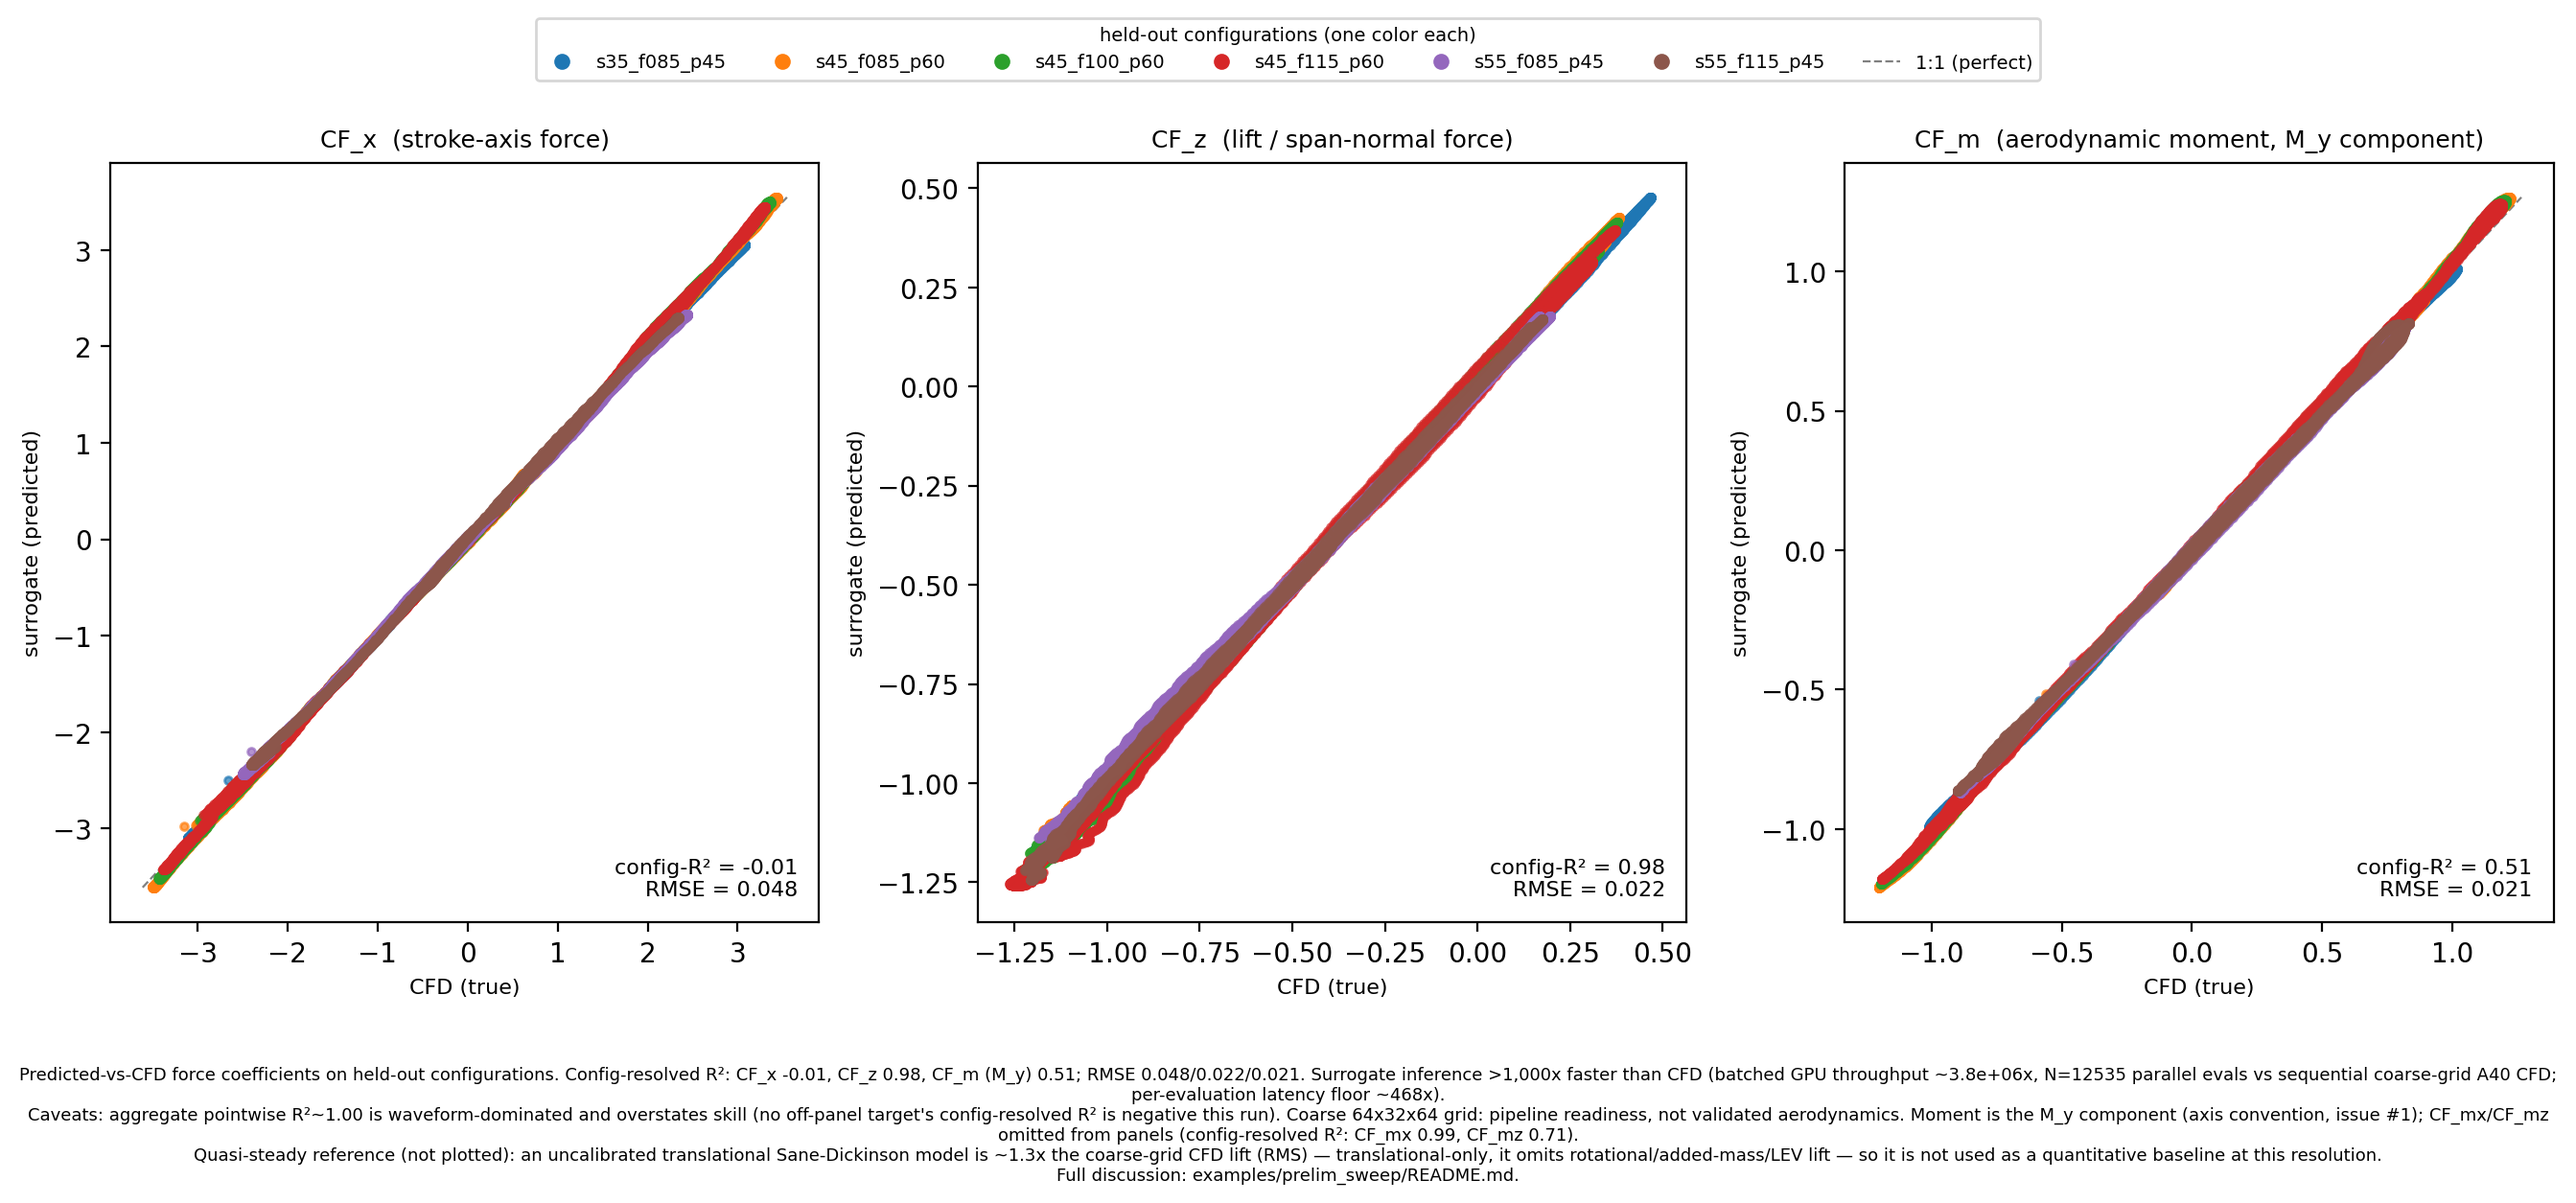
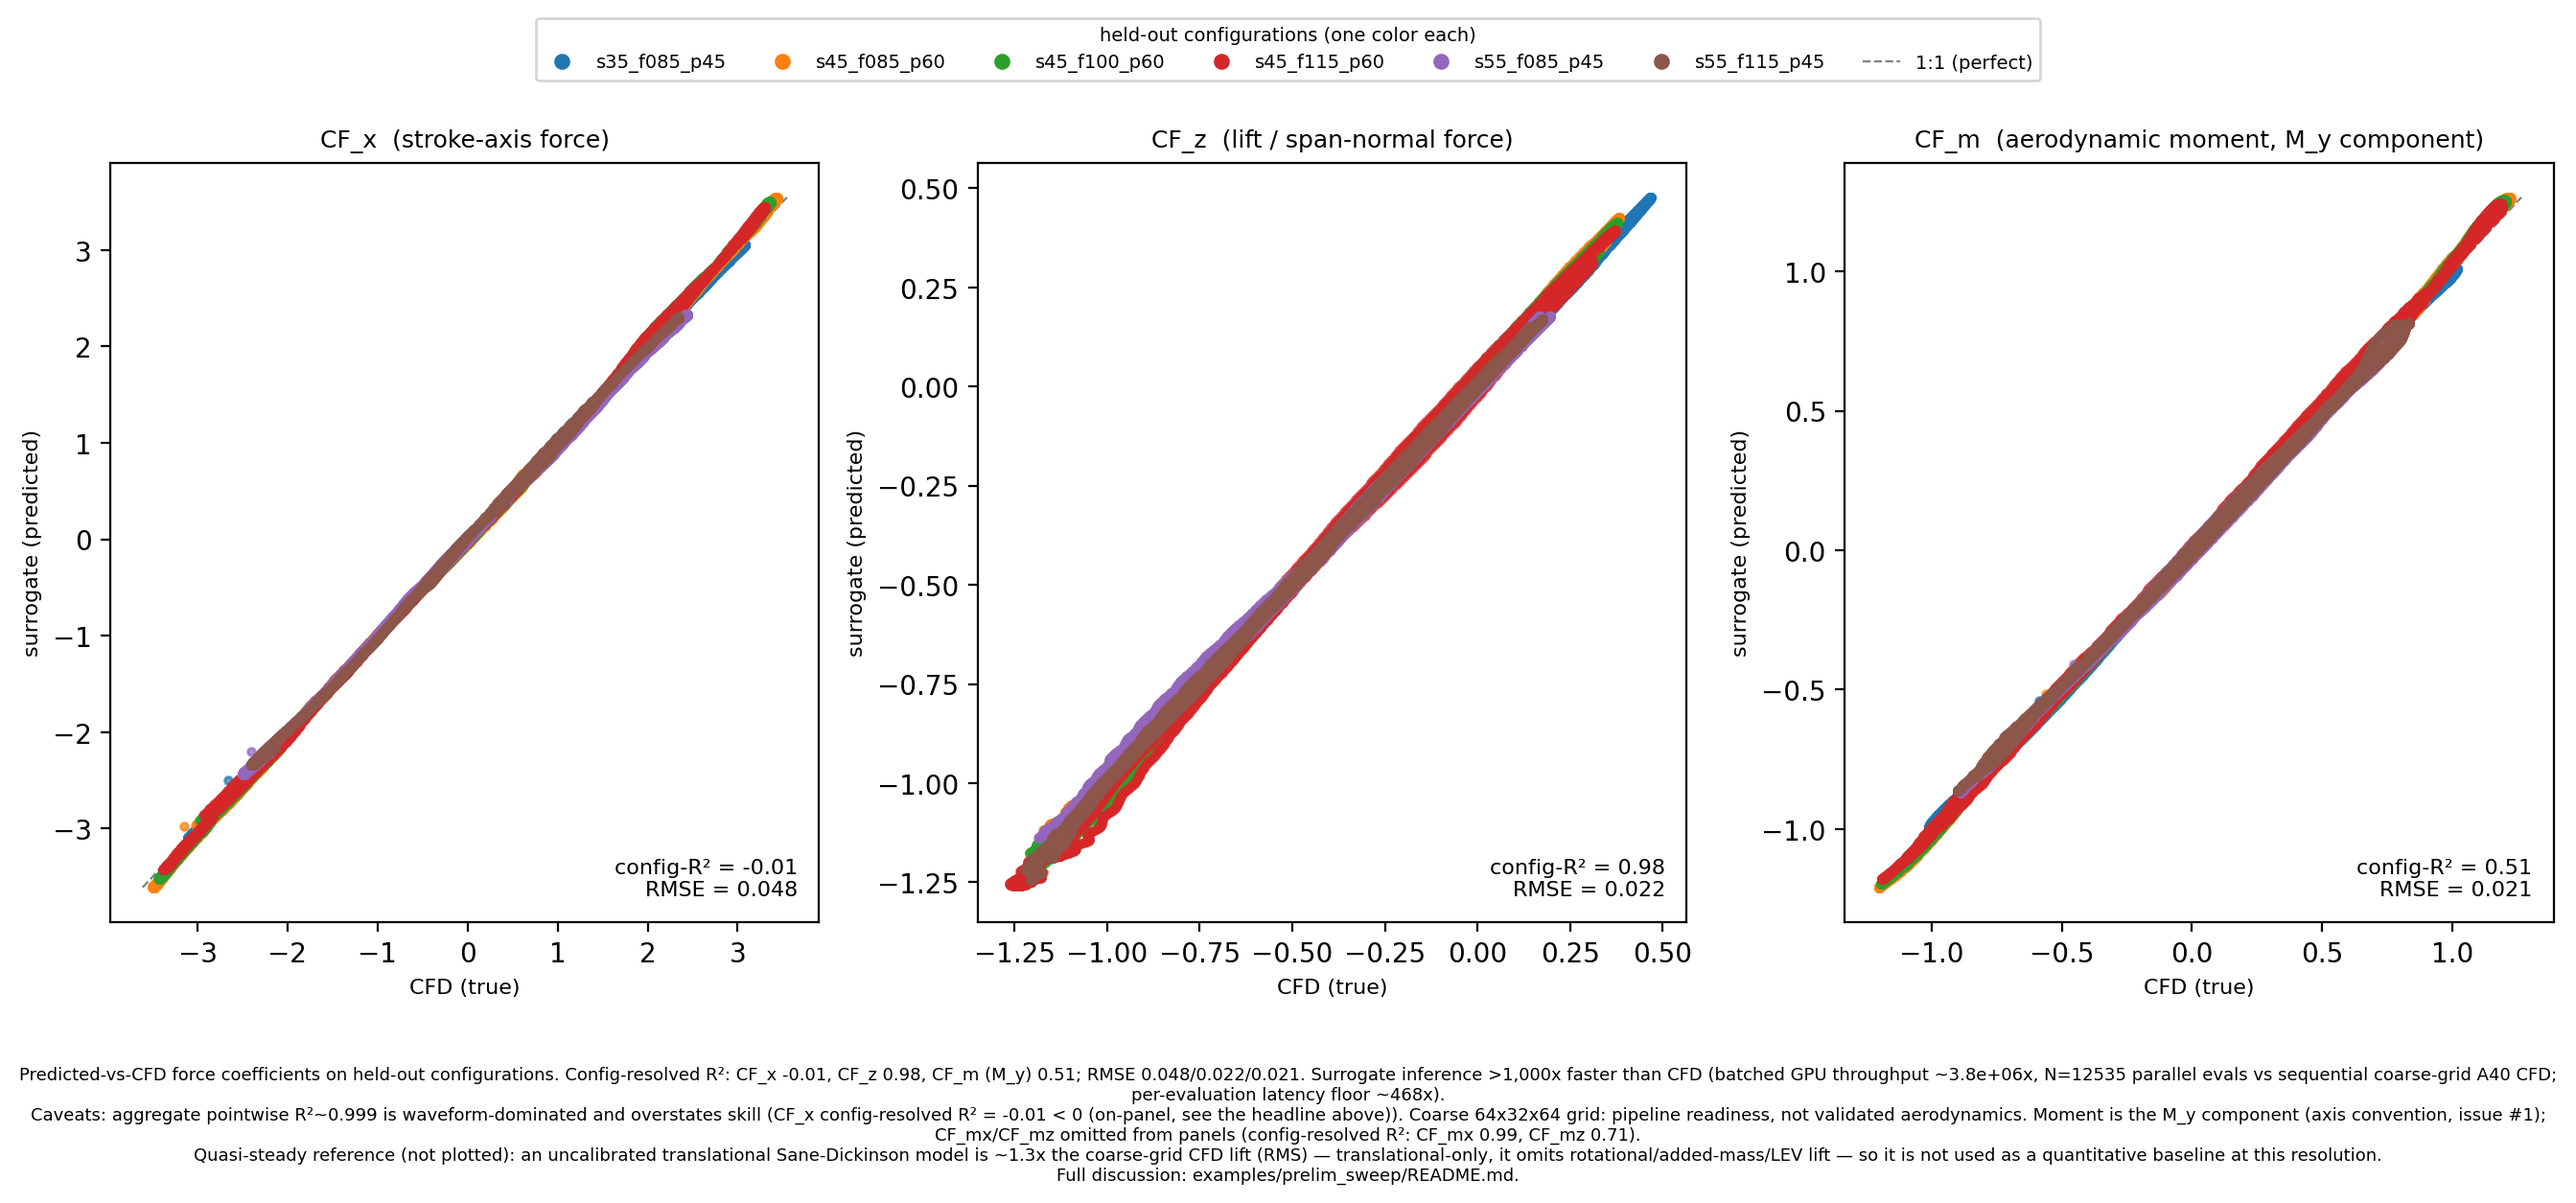
fix(force-surrogate): caption's negative-R2 tell must scan on-panel targets too
The pre-PR /review-pr self-review (3 of 5 reviewer lenses converged
independently) found that the first fix to build_caption() only scanned the
three off-panel targets (CF_y/CF_mx/CF_mz) for a negative config-resolved
R^2 "tell." In the actual regenerated corpus the negative axis is on-panel
(CF_x), so the caption fell through to "no off-panel target's R^2 is
negative this run" -- true, but it omits the real on-panel evidence sitting
three words earlier in the same caption, defeating the caveat's purpose.

Fixed by scanning all 6 targets and naming whichever is negative, noting
when it's on-panel. Also widened the aggregate R^2's format from :.2f to
:.3f -- 0.9989... was rendering as a literal "1.00", contradicting the
prose's point that it's suspiciously high but not literally perfect.

TDD: added test_build_caption_flags_an_on_panel_negative_tell_not_just_off_panel,
confirmed red via git stash against the once-fixed-but-still-incomplete
code, green after this fix. Regenerated the figure again.

Changed region(s): [[0.0, 0.9012, 0.9885, 0.9633]]

diff --git a/src/mosquito_cfd/force_surrogate/evidence_figure.py b/src/mosquito_cfd/force_surrogate/evidence_figure.py
@@ -288,9 +288,13 @@ def build_caption(
 
     A positive headline (per-axis config-resolved R2/RMSE + the batched >1,000x speedup), a
     terse "Caveats:" line, a terse quasi-steady-reference line, and a README pointer.
-    Which off-panel target (CF_y/CF_mx/CF_mz) is flagged as negative, if any, is read from
-    ``metrics`` at call time (fix-force-surrogate-sweep-hinge) — earlier corpora always had
-    CF_y as the negative "tell", but that is a property of the data, not a fixed axis.
+    Which target is flagged as the negative-R2 "tell" that the aggregate overstates skill, if
+    any, is read from **all six** targets at call time (fix-force-surrogate-sweep-hinge) —
+    earlier corpora always had the off-panel CF_y as the tell, but the corrected-hinge corpus
+    has it on-panel instead (CF_x). Scanning only the off-panel three would miss that case
+    entirely and silently fall back to a "nothing to report" message while an on-panel axis
+    sits negative three words earlier in the same caption's headline — checked deliberately,
+    not assumed to be off-panel.
 
     Args:
         metrics: The loaded ``metrics.json`` dict.
@@ -303,6 +307,10 @@ def build_caption(
     r2 = {c: _fmt_r2(_config_mean_r2(metrics, c)) for c in PANEL_COEFFICIENTS}
     rmse = {c: _per_target_rmse(metrics, c) for c in PANEL_COEFFICIENTS}
     off_panel_r2 = {c: _config_mean_r2(metrics, c) for c in ("CF_y", "CF_mx", "CF_mz")}
+    all_config_r2 = {
+        c: _config_mean_r2(metrics, c)
+        for c in ("CF_x", "CF_y", "CF_z", "CF_mx", "CF_my", "CF_mz")
+    }
     agg = _require(metrics, "aggregate", "aggregate metrics")["r2"]
     thr = speedup["throughput_speedup"]
     lat = speedup["latency_speedup"]
@@ -316,20 +324,25 @@ def build_caption(
         f"(batched GPU throughput ~{thr:.1e}x, N={batch} parallel evals vs sequential "
         f"coarse-grid A40 CFD; per-evaluation latency floor ~{lat:.0f}x)."
     )
-    negative_off_panel = {
-        c: v for c, v in off_panel_r2.items() if v is not None and v < 0
+    negative_targets = {
+        c: v for c, v in all_config_r2.items() if v is not None and v < 0
     }
-    if negative_off_panel:
-        flag_c, flag_v = next(iter(negative_off_panel.items()))
-        off_panel_tell = f"{flag_c} config-resolved R² = {_fmt_r2(flag_v)} < 0"
+    if negative_targets:
+        flag_c, flag_v = next(iter(negative_targets.items()))
+        where = (
+            "on-panel, see the headline above"
+            if flag_c in PANEL_COEFFICIENTS
+            else "off-panel"
+        )
+        tell = f"{flag_c} config-resolved R² = {_fmt_r2(flag_v)} < 0 ({where})"
     else:
-        off_panel_tell = "no off-panel target's config-resolved R² is negative this run"
+        tell = "no target's config-resolved R² is negative this run"
     off_panel_disclosure = ", ".join(
         f"{c} {_fmt_r2(v)}" for c, v in off_panel_r2.items() if c in ("CF_mx", "CF_mz")
     )
     caveats = (
-        f"Caveats: aggregate pointwise R²~{agg:.2f} is waveform-dominated and overstates "
-        f"skill ({off_panel_tell}). Coarse 64x32x64 grid: "
+        f"Caveats: aggregate pointwise R²~{agg:.3f} is waveform-dominated and overstates "
+        f"skill ({tell}). Coarse 64x32x64 grid: "
         f"pipeline readiness, not validated "
         f"aerodynamics. Moment is the M_y component (axis convention, issue #1); "
         f"CF_mx/CF_mz omitted from panels (config-resolved R²: {off_panel_disclosure})."

diff --git a/tests/test_force_surrogate_evidence_figure.py b/tests/test_force_surrogate_evidence_figure.py
@@ -56,7 +56,7 @@ def _toy_predictions(configs=("s35_f085_p45", "s55_f115_p45"), n=8) -> pd.DataFr
 
 
 def _toy_metrics(
-    *, cf_y_r2=-3.61, cf_z_r2=0.83, cf_mx_r2=0.94, null_target="CF_mz"
+    *, cf_x_r2=0.94, cf_y_r2=-3.61, cf_z_r2=0.83, cf_mx_r2=0.94, null_target="CF_mz"
 ) -> dict:
     """A tiny metrics dict mirroring the committed metrics.json structure.
 
@@ -64,7 +64,7 @@ def _toy_metrics(
     """
     per_target = {t: {"rmse": 0.05, "mae": 0.03, "r2": 0.98} for t in TARGETS}
     config_resolved = {
-        "CF_x": {"config_mean_r2": 0.94, "within_config_variance_fraction": 0.978},
+        "CF_x": {"config_mean_r2": cf_x_r2, "within_config_variance_fraction": 0.978},
         "CF_y": {"config_mean_r2": cf_y_r2, "within_config_variance_fraction": 0.999},
         "CF_z": {"config_mean_r2": cf_z_r2, "within_config_variance_fraction": 0.999},
         "CF_mx": {"config_mean_r2": cf_mx_r2, "within_config_variance_fraction": 0.999},
@@ -325,13 +325,37 @@ def test_build_caption_off_panel_claims_are_data_driven_not_hardcoded():
     false (fix-force-surrogate-sweep-hinge: the corrected corpus made CF_y positive and gave
     CF_mx a strong between-config R2, exposing this as hardcoded rather than data-driven).
     """
-    metrics = _toy_metrics(cf_y_r2=0.81, cf_mx_r2=0.99, null_target=None)
+    metrics = _toy_metrics(cf_y_r2=0.81, cf_mx_r2=0.77, null_target=None)
     sp = compute_speedup(metrics["inference"], rows_per_wingbeat=2000)
     cap = build_caption(metrics, sp, _TOY_BASELINE)
     low = cap.lower()
     assert "0.81 < 0" not in cap  # must not claim a positive number is negative
     assert "no between-config signal" not in low  # CF_mx's own R2 says otherwise
-    assert "0.99" in cap  # the actual CF_mx number is disclosed instead
+    # 0.77 is CF_mx-only (distinct from every other fixture value, incl. CF_my's 0.99), so
+    # this actually proves the disclosure ran, not a coincidental match elsewhere in the caption.
+    assert "0.77" in cap
+
+
+def test_build_caption_flags_an_on_panel_negative_tell_not_just_off_panel():
+    """Scenario: when the negative config-resolved R2 is an on-panel target (CF_x/CF_z/CF_my),
+    not an off-panel one, the caveats line must name IT, not silently fall through to "no
+    off-panel target is negative" — which is true but omits the actual, on-panel evidence that
+    the aggregate is inflated. This is exactly the shape of the real, committed
+    fix-force-surrogate-sweep-hinge corpus (CF_x negative, all of CF_y/CF_mx/CF_mz positive) —
+    a shape the original off-panel-only scan silently mishandled (caught by /review-pr, not by
+    the first version of this test).
+    """
+    metrics = _toy_metrics(cf_x_r2=-0.01, cf_y_r2=0.81, cf_mx_r2=0.99, null_target=None)
+    sp = compute_speedup(metrics["inference"], rows_per_wingbeat=2000)
+    cap = build_caption(metrics, sp, _TOY_BASELINE)
+    low = cap.lower()
+    assert (
+        "cf_x" in low and "-0.01" in cap and "< 0" in cap
+    )  # names the real on-panel tell
+    assert "no off-panel target" not in low  # must not use the misleading fallback
+    assert (
+        "no target's config-resolved" not in low
+    )  # must not use the "nothing found" fallback
 
 
 def test_build_caption_mutates_with_metrics():

diff --git a/openspec/changes/fix-force-surrogate-sweep-hinge/tasks.md b/openspec/changes/fix-force-surrogate-sweep-hinge/tasks.md
@@ -228,6 +228,22 @@ Phase 5's cluster-run commit):
     the fix), then regenerated the figure with the corrected caption. `PANEL_COEFFICIENTS` (the fixed
     3-axis panel choice, design D1) is unchanged — only the caption's off-panel prose is now
     data-driven rather than assuming one corpus's ranking holds for all future ones.
+    **Second deviation, found by this change's own pre-PR `/review-pr` self-review (3 of 5
+    reviewer lenses converged independently):** the first version of the fix above only scanned
+    the three *off-panel* targets (`CF_y`/`CF_mx`/`CF_mz`) for a negative "tell." But in the
+    actual regenerated corpus the negative axis is **on-panel** (`CF_x`, a headline target) — so
+    the fixed-but-incomplete code fell through to "no off-panel target's config-resolved R² is
+    negative this run," which is true but omits the real, on-panel evidence sitting three words
+    earlier in the same caption, defeating the caveat sentence's whole purpose. Root cause: the
+    first fix's own regression test only varied the off-panel targets, never the on-panel ones,
+    so it couldn't catch this. Fixed by scanning all 6 targets (`all_config_r2`) for the tell,
+    naming whichever is first negative in natural axis order and noting "(on-panel, see the
+    headline above)" when applicable; also widened the aggregate R²'s caption format from `:.2f`
+    to `:.3f` (a second, independently-found issue: `0.9989...` rendered as a literal `"1.00"`,
+    contradicting the surrounding prose's point that it's suspiciously high but not literally
+    perfect). Added `test_build_caption_flags_an_on_panel_negative_tell_not_just_off_panel`
+    (confirmed red against the once-fixed-but-still-incomplete code via `git stash`, green after
+    this second fix), then regenerated the figure again.
 37. [x] Run the Phase 3 diagnostic against the final regenerated decks (same sample as task 32, run
     once total) and commit its output under `examples/prelim_sweep/figures/`. Create
     `examples/prelim_sweep/figures/README.md` (new file, modeled on
